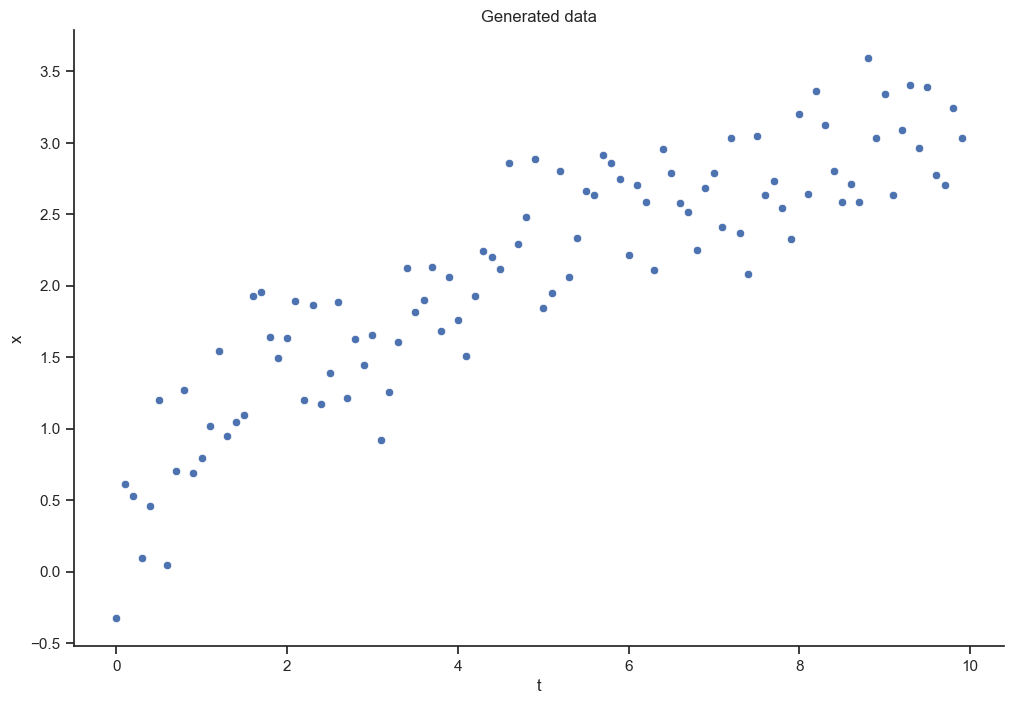
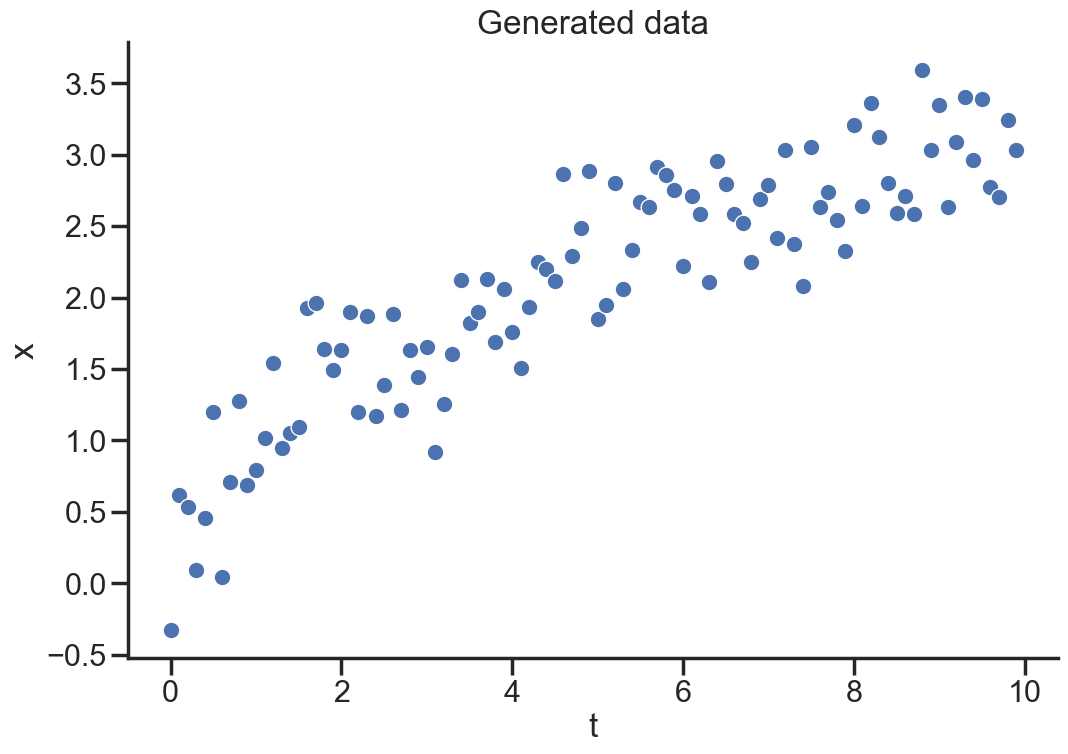
publish

diff --git a/docs/posts/Bayesian Persuasion/bn.html b/docs/posts/Bayesian Persuasion/bn.html
@@ -247,16 +247,17 @@ window.Quarto = {
 <span id="cb1-5"><a href="#cb1-5" aria-hidden="true" tabindex="-1"></a>sns.set_theme()</span>
 <span id="cb1-6"><a href="#cb1-6" aria-hidden="true" tabindex="-1"></a>sns.set_style(<span class="st">"ticks"</span>)</span>
 <span id="cb1-7"><a href="#cb1-7" aria-hidden="true" tabindex="-1"></a>sns.color_palette(<span class="st">"dark"</span>)</span>
-<span id="cb1-8"><a href="#cb1-8" aria-hidden="true" tabindex="-1"></a>plt.rc(<span class="st">"axes.spines"</span>, top<span class="op">=</span><span class="va">False</span>, right<span class="op">=</span><span class="va">False</span>)</span>
-<span id="cb1-9"><a href="#cb1-9" aria-hidden="true" tabindex="-1"></a>plt.rc(<span class="st">"figure"</span>, figsize<span class="op">=</span> (<span class="dv">12</span>,<span class="dv">8</span>))</span>
-<span id="cb1-10"><a href="#cb1-10" aria-hidden="true" tabindex="-1"></a></span>
-<span id="cb1-11"><a href="#cb1-11" aria-hidden="true" tabindex="-1"></a><span class="co"># generate synthetic data</span></span>
-<span id="cb1-12"><a href="#cb1-12" aria-hidden="true" tabindex="-1"></a>t <span class="op">=</span> np.arange(<span class="dv">0</span>,<span class="dv">10</span>, <span class="fl">0.1</span>)</span>
-<span id="cb1-13"><a href="#cb1-13" aria-hidden="true" tabindex="-1"></a>x <span class="op">=</span> t<span class="op">**</span><span class="fl">0.5</span> <span class="op">+</span> np.random.randn(<span class="bu">len</span>(t))<span class="op">*</span><span class="fl">0.3</span></span>
-<span id="cb1-14"><a href="#cb1-14" aria-hidden="true" tabindex="-1"></a>sns.scatterplot(x<span class="op">=</span>t, y<span class="op">=</span>x)<span class="op">;</span></span>
-<span id="cb1-15"><a href="#cb1-15" aria-hidden="true" tabindex="-1"></a>plt.title(<span class="st">"Generated data"</span>)<span class="op">;</span></span>
-<span id="cb1-16"><a href="#cb1-16" aria-hidden="true" tabindex="-1"></a>plt.xlabel(<span class="st">"t"</span>)<span class="op">;</span></span>
-<span id="cb1-17"><a href="#cb1-17" aria-hidden="true" tabindex="-1"></a>plt.ylabel(<span class="st">"x"</span>)<span class="op">;</span></span></code><button title="Copy to Clipboard" class="code-copy-button"><i class="bi"></i></button></pre></div>
+<span id="cb1-8"><a href="#cb1-8" aria-hidden="true" tabindex="-1"></a>sns.set_context(<span class="st">"poster"</span>)</span>
+<span id="cb1-9"><a href="#cb1-9" aria-hidden="true" tabindex="-1"></a>plt.rc(<span class="st">"axes.spines"</span>, top<span class="op">=</span><span class="va">False</span>, right<span class="op">=</span><span class="va">False</span>)</span>
+<span id="cb1-10"><a href="#cb1-10" aria-hidden="true" tabindex="-1"></a>plt.rc(<span class="st">"figure"</span>, figsize<span class="op">=</span> (<span class="dv">12</span>,<span class="dv">8</span>))</span>
+<span id="cb1-11"><a href="#cb1-11" aria-hidden="true" tabindex="-1"></a></span>
+<span id="cb1-12"><a href="#cb1-12" aria-hidden="true" tabindex="-1"></a><span class="co"># generate synthetic data</span></span>
+<span id="cb1-13"><a href="#cb1-13" aria-hidden="true" tabindex="-1"></a>t <span class="op">=</span> np.arange(<span class="dv">0</span>,<span class="dv">10</span>, <span class="fl">0.1</span>)</span>
+<span id="cb1-14"><a href="#cb1-14" aria-hidden="true" tabindex="-1"></a>x <span class="op">=</span> t<span class="op">**</span><span class="fl">0.5</span> <span class="op">+</span> np.random.randn(<span class="bu">len</span>(t))<span class="op">*</span><span class="fl">0.3</span></span>
+<span id="cb1-15"><a href="#cb1-15" aria-hidden="true" tabindex="-1"></a>sns.scatterplot(x<span class="op">=</span>t, y<span class="op">=</span>x)<span class="op">;</span></span>
+<span id="cb1-16"><a href="#cb1-16" aria-hidden="true" tabindex="-1"></a>plt.title(<span class="st">"Generated data"</span>)<span class="op">;</span></span>
+<span id="cb1-17"><a href="#cb1-17" aria-hidden="true" tabindex="-1"></a>plt.xlabel(<span class="st">"t"</span>)<span class="op">;</span></span>
+<span id="cb1-18"><a href="#cb1-18" aria-hidden="true" tabindex="-1"></a>plt.ylabel(<span class="st">"x"</span>)<span class="op">;</span></span></code><button title="Copy to Clipboard" class="code-copy-button"><i class="bi"></i></button></pre></div>
 <div class="cell-output cell-output-display">
 <div>
 <figure class="figure">
@@ -496,7 +497,7 @@ window.Quarto = {
 <div id="cell-36" class="cell" data-execution_count="19">
 <div class="sourceCode cell-code" id="cb20"><pre class="sourceCode python code-with-copy"><code class="sourceCode python"><span id="cb20-1"><a href="#cb20-1" aria-hidden="true" tabindex="-1"></a><span class="im">import</span> blackjax</span>
 <span id="cb20-2"><a href="#cb20-2" aria-hidden="true" tabindex="-1"></a>num_warmup <span class="op">=</span> <span class="dv">10000</span></span>
-<span id="cb20-3"><a href="#cb20-3" aria-hidden="true" tabindex="-1"></a>num_samples <span class="op">=</span> <span class="dv">1000</span></span></code><button title="Copy to Clipboard" class="code-copy-button"><i class="bi"></i></button></pre></div>
+<span id="cb20-3"><a href="#cb20-3" aria-hidden="true" tabindex="-1"></a>num_samples <span class="op">=</span> <span class="dv">5000</span></span></code><button title="Copy to Clipboard" class="code-copy-button"><i class="bi"></i></button></pre></div>
 </div>
 <div id="cell-37" class="cell" data-execution_count="20">
 <div class="sourceCode cell-code" id="cb21"><pre class="sourceCode python code-with-copy"><code class="sourceCode python"><span id="cb21-1"><a href="#cb21-1" aria-hidden="true" tabindex="-1"></a>rng_key <span class="op">=</span> PRNGKey(<span class="dv">0</span>)</span>
@@ -580,7 +581,7 @@ window.Quarto = {
 <span id="cb28-2"><a href="#cb28-2" aria-hidden="true" tabindex="-1"></a>res <span class="op">=</span> jax.vmap(eval_fn, in_axes<span class="op">=</span>(<span class="dv">0</span>, <span class="va">None</span>))(posterior_params, t).squeeze()</span>
 <span id="cb28-3"><a href="#cb28-3" aria-hidden="true" tabindex="-1"></a></span>
 <span id="cb28-4"><a href="#cb28-4" aria-hidden="true" tabindex="-1"></a><span class="co"># predict out of sample</span></span>
-<span id="cb28-5"><a href="#cb28-5" aria-hidden="true" tabindex="-1"></a>t_oos<span class="op">=</span>jnp.arange(<span class="dv">0</span>,<span class="dv">20</span>,<span class="fl">.1</span>)</span>
+<span id="cb28-5"><a href="#cb28-5" aria-hidden="true" tabindex="-1"></a>t_oos<span class="op">=</span>jnp.arange(<span class="dv">0</span>,<span class="dv">15</span>,<span class="fl">.1</span>)</span>
 <span id="cb28-6"><a href="#cb28-6" aria-hidden="true" tabindex="-1"></a>res_oos <span class="op">=</span> jax.vmap(eval_fn, in_axes<span class="op">=</span>(<span class="dv">0</span>, <span class="va">None</span>))(posterior_params, t_oos).squeeze()</span></code><button title="Copy to Clipboard" class="code-copy-button"><i class="bi"></i></button></pre></div>
 </div>
 <div id="cell-45" class="cell" data-execution_count="27">
@@ -606,19 +607,19 @@ window.Quarto = {
 </div>
 </div>
 </div>
-<div id="cell-47" class="cell" data-execution_count="33">
+<div id="cell-47" class="cell" data-execution_count="29">
 <div class="sourceCode cell-code" id="cb31"><pre class="sourceCode python code-with-copy"><code class="sourceCode python"><span id="cb31-1"><a href="#cb31-1" aria-hidden="true" tabindex="-1"></a>means<span class="op">=</span>df_oos.mean(axis<span class="op">=</span><span class="dv">1</span>)</span>
 <span id="cb31-2"><a href="#cb31-2" aria-hidden="true" tabindex="-1"></a>stds <span class="op">=</span> df_oos.std(axis<span class="op">=</span><span class="dv">1</span>)</span>
 <span id="cb31-3"><a href="#cb31-3" aria-hidden="true" tabindex="-1"></a></span>
-<span id="cb31-4"><a href="#cb31-4" aria-hidden="true" tabindex="-1"></a>sns.lineplot(x<span class="op">=</span>t_oos, y<span class="op">=</span>means)<span class="op">;</span></span>
-<span id="cb31-5"><a href="#cb31-5" aria-hidden="true" tabindex="-1"></a>sns.lineplot(x<span class="op">=</span>t_oos, y<span class="op">=</span>np.sqrt(t_oos), alpha<span class="op">=</span><span class="fl">0.3</span>)</span>
-<span id="cb31-6"><a href="#cb31-6" aria-hidden="true" tabindex="-1"></a>sns.lineplot(x<span class="op">=</span>t_oos, y<span class="op">=</span>means <span class="op">+</span> stds, color<span class="op">=</span><span class="st">"k"</span>, alpha<span class="op">=</span><span class="fl">0.3</span>)<span class="op">;</span></span>
-<span id="cb31-7"><a href="#cb31-7" aria-hidden="true" tabindex="-1"></a>sns.lineplot(x<span class="op">=</span>t_oos, y<span class="op">=</span>means <span class="op">-</span> stds, color<span class="op">=</span><span class="st">"k"</span>, alpha<span class="op">=</span><span class="fl">0.3</span>)<span class="op">;</span></span>
-<span id="cb31-8"><a href="#cb31-8" aria-hidden="true" tabindex="-1"></a>sns.scatterplot(x<span class="op">=</span>t, y<span class="op">=</span>x)<span class="op">;</span></span>
-<span id="cb31-9"><a href="#cb31-9" aria-hidden="true" tabindex="-1"></a>plt.title(<span class="vs">r"BNN mean ± std out of sample"</span>)<span class="op">;</span></span>
-<span id="cb31-10"><a href="#cb31-10" aria-hidden="true" tabindex="-1"></a>plt.xlabel(<span class="st">"t"</span>)<span class="op">;</span></span>
-<span id="cb31-11"><a href="#cb31-11" aria-hidden="true" tabindex="-1"></a>plt.ylabel(<span class="vs">r"$f_{\theta}(t)$"</span>)<span class="op">;</span></span>
-<span id="cb31-12"><a href="#cb31-12" aria-hidden="true" tabindex="-1"></a>plt.legend([<span class="st">"BNN mean"</span>, <span class="st">"Truth"</span>, <span class="vs">r"$\sigma$ credibility intervals"</span>])<span class="op">;</span></span></code><button title="Copy to Clipboard" class="code-copy-button"><i class="bi"></i></button></pre></div>
+<span id="cb31-4"><a href="#cb31-4" aria-hidden="true" tabindex="-1"></a>sns.lineplot(x<span class="op">=</span>t_oos, y<span class="op">=</span>np.sqrt(t_oos), alpha<span class="op">=</span><span class="dv">1</span>, color<span class="op">=</span><span class="st">"r"</span>)<span class="op">;</span></span>
+<span id="cb31-5"><a href="#cb31-5" aria-hidden="true" tabindex="-1"></a>plt.plot(t_oos,df_oos.sample(axis<span class="op">=</span><span class="dv">1</span>, n<span class="op">=</span><span class="dv">500</span>), alpha<span class="op">=</span><span class="fl">0.02</span>, color<span class="op">=</span><span class="st">"k"</span>)<span class="op">;</span></span>
+<span id="cb31-6"><a href="#cb31-6" aria-hidden="true" tabindex="-1"></a></span>
+<span id="cb31-7"><a href="#cb31-7" aria-hidden="true" tabindex="-1"></a>sns.scatterplot(x<span class="op">=</span>t, y<span class="op">=</span>x, alpha<span class="op">=</span><span class="fl">0.3</span>)<span class="op">;</span></span>
+<span id="cb31-8"><a href="#cb31-8" aria-hidden="true" tabindex="-1"></a>plt.title(<span class="vs">r"BNN posterior predictive samples"</span>)<span class="op">;</span></span>
+<span id="cb31-9"><a href="#cb31-9" aria-hidden="true" tabindex="-1"></a>plt.xlabel(<span class="st">"t"</span>)<span class="op">;</span></span>
+<span id="cb31-10"><a href="#cb31-10" aria-hidden="true" tabindex="-1"></a>plt.ylabel(<span class="vs">r"$f_{\theta}(t)$"</span>)<span class="op">;</span></span>
+<span id="cb31-11"><a href="#cb31-11" aria-hidden="true" tabindex="-1"></a>plt.legend([<span class="st">"Truth"</span>,<span class="st">"Samples"</span>])<span class="op">;</span></span>
+<span id="cb31-12"><a href="#cb31-12" aria-hidden="true" tabindex="-1"></a>plt.ylim(<span class="dv">0</span>,<span class="dv">6</span>)</span></code><button title="Copy to Clipboard" class="code-copy-button"><i class="bi"></i></button></pre></div>
 <div class="cell-output cell-output-display">
 <div>
 <figure class="figure">

diff --git a/docs/index.html b/docs/index.html
@@ -205,7 +205,7 @@ window.Quarto = {
 
 <div class="quarto-listing quarto-listing-container-grid" id="listing-listing">
 <div class="list grid quarto-listing-cols-3">
-<div class="g-col-1" data-index="0" data-categories="Machine Learning,Bayesian Analysis,Jax" data-listing-date-sort="1726783200000" data-listing-file-modified-sort="1726864810012" data-listing-date-modified-sort="NaN" data-listing-reading-time-sort="6" data-listing-word-count-sort="1160">
+<div class="g-col-1" data-index="0" data-categories="Machine Learning,Bayesian Analysis,Jax" data-listing-date-sort="1726783200000" data-listing-file-modified-sort="1726921723183" data-listing-date-modified-sort="NaN" data-listing-reading-time-sort="6" data-listing-word-count-sort="1160">
 <a href="./posts/Bayesian Persuasion/bn.html" class="quarto-grid-link">
 <div class="quarto-grid-item card h-100 card-left">
 <p class="card-img-top"><img src="posts\Bayesian Persuasion\bn_files\figure-html\cell-2-output-1.png" style="height: 150px;"  class="thumbnail-image card-img"/></p>
